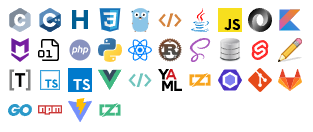
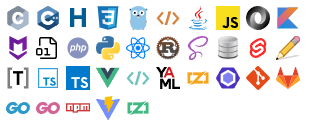
Add go.sum.

diff --git a/sample/sample.html b/sample/sample.html
@@ -52,6 +52,7 @@
 		<img src="../filename/git.svg" />
 		<img src="../filename/gitlab.svg" />
 		<img src="../filename/go-mod.svg" />
+		<img src="../filename/go-sum.svg" />
 		<img src="../filename/npm.svg" />
 		<img src="../filename/vite.svg" />
 		<img src="../filename/zig-zon.svg" />
